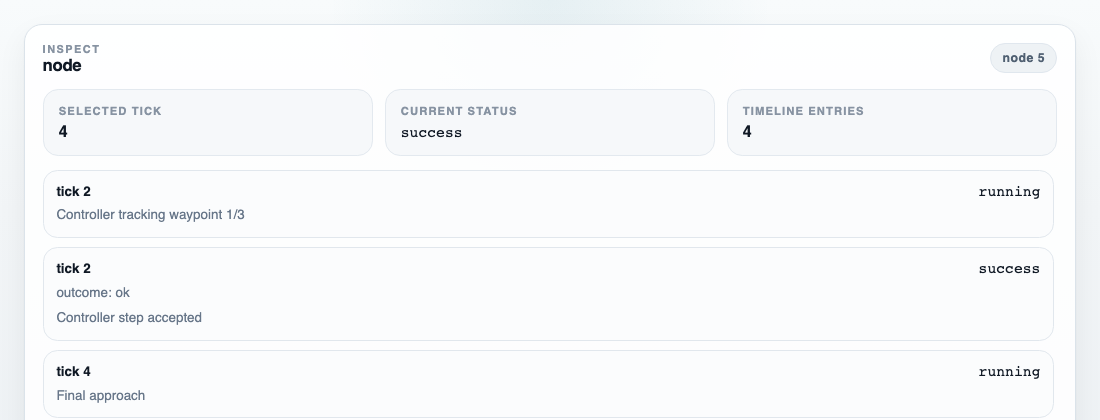
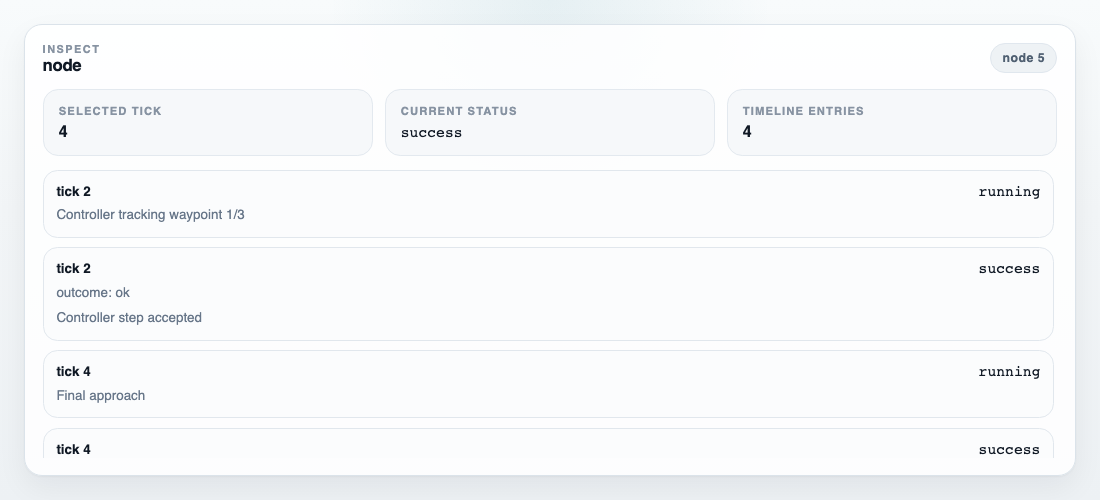
Adjust hero gallery spacing

diff --git a/tools/docs/capture-studio-screenshots.ts b/tools/docs/capture-studio-screenshots.ts
@@ -121,14 +121,14 @@ async function captureScreenshots(): Promise<void> {
     {
       fileName: 'studio-node-inspector.png',
       selector: '#node-inspector-panel',
-      viewport: '1100,420',
+      viewport: '1100,500',
       waitMs: 1200,
       url: `${baseUrl}/?demo_fixture=/demo/studio_demo/events.jsonl&demo_tick=4&demo_node=5&demo_capture=node`,
     },
     {
       fileName: 'studio-blackboard-diff.png',
       selector: '#blackboard-diff',
-      viewport: '1240,340',
+      viewport: '1240,390',
       waitMs: 1200,
       url: `${baseUrl}/?demo_fixture=/demo/studio_demo/events.jsonl&demo_tick=4&demo_capture=diff`,
     },

diff --git a/apps/studio/src/styles.css b/apps/studio/src/styles.css
@@ -96,7 +96,7 @@ code {
 .hero-stage-panel {
   display: grid;
   gap: 1rem;
-  padding: 1.35rem;
+  padding: 1.35rem 1.35rem 1.15rem;
   border-radius: 26px;
   border: 1px solid rgba(215, 224, 232, 0.9);
   background:
@@ -442,6 +442,7 @@ code {
 
 .app-shell--capture-hero {
   max-width: 1480px;
+  padding-bottom: 0.9rem;
 }
 
 .app-shell--capture-hero .tree-panel {
